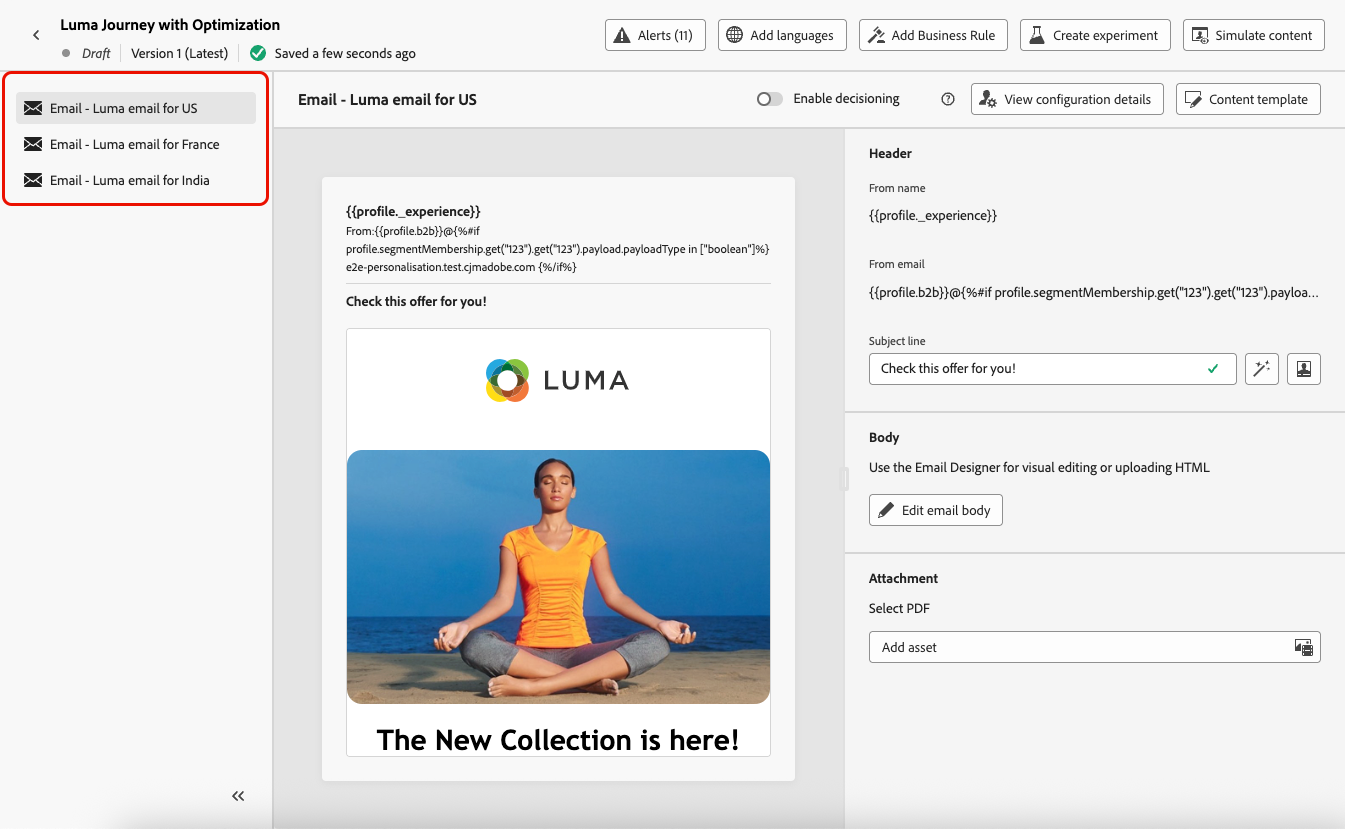
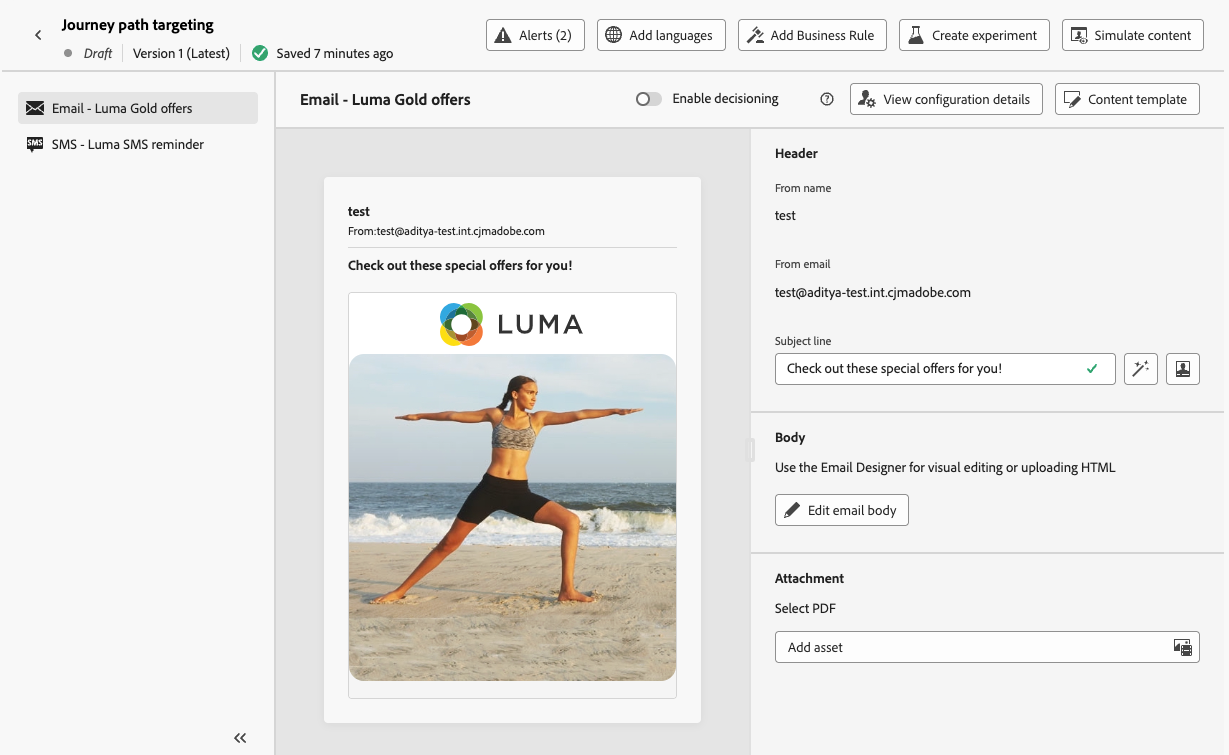
DODAC-1137- Journey path optimization updates (#2051)
* DOCAC-11377 - Journey path optimization draft

* DOCAC-11377 - Journey path optimization updates

* DOCAC-11377 - Journey path optimization updates

* update TOC with Optimize

* Orchestration activities update

* Optimize file name updated

* Update optimize.md

Added LA badge + mention

* Condition activity renamed to Conditions

* Old condition activity added back

* Old condition activity added back

* Availability note for the legacy Condition activity

* Update conditions.md

* fix

* Update conditions.md

Temp fix for CH

* DOCAC-11377 - Journey path optimization eng/PM feedback + UC

* unhide in rn

* add link to doc in rn

* DODAC-11377 - Journey path optimization updates

* DODAC-11377 - Journey path optimization updates

---------

diff --git a/help/using/building-journeys/optimize.md b/help/using/building-journeys/optimize.md
@@ -51,59 +51,109 @@ Once the journey is live, profiles are evaluated against the defined criteria, a
 
 Experimentation allows you to test different paths based on a random split to determine which performs best based on predefined success metrics.
 
-To set up experimentation in a journey, follow the steps below.
+To set up path experimentation in a journey, follow the steps below.
 
 Let's say you want to compare three paths:
 
 * one path with one email;
-* a second path with a Wait node of two days and an email;
+* a second path with a **[!UICONTROL Wait]** node of two days and an email;
 * a third path with an email and then an SMS message.
 
-1. Drop the **[!UICONTROL Optimize]** activity into the journey canvas.
+1. From the **[!UICONTROL Orchestration]** section, drag and drop the **[!UICONTROL Optimize]** activity into the journey canvas.
 
-1. Add an optional label to identify the activity in reporting and test mode logs.
+1. Add an optional label, which can be useful to identify the activity in reporting and test mode logs.
 
 1. Select **[!UICONTROL Experiment]** from the **[!UICONTROL Method]** drop-down list.
 
-    ![](assets/journey-optimize-experiment.png){width=85%}
+    ![](assets/journey-optimize-experiment.png){width=75%}
 
-1. Click **[!UICONTROL Experiment settings]**.
+1. Click **[!UICONTROL Create experiment]**.
 
-1. Design and configure your experiment as wanted. [Learn how](../content-management/content-experiment.md)
+1. Select the **[!UICONTROL Success metric]** you want to set for your experiment.
+
+    <!--Need to have the list of all default metrics + a description for each.
+    Explain why the metric selection is important.
+    Are there custom metrics? If so explain.
+    If possible, add best practices and examples for each metrics (could even be a dedicated section).
+    Consider adding an example in this step: For this example, select this metric to test xxx.
+    -->
+
+    ![](assets/journey-optimize-experiment-metrics.png){width=70%}
+
+<!--1. Change the **[!UICONTROL Title]** of your treatment to better differentiate them.-->
+
+1. You can choose to add a **[!UICONTROL Holdout]** group to your delivery. This group will not receive any content from this experiment. 
+
+    >[!NOTE]
+    >
+    >Switching on the toggle bar will automatically take 10% of your population. You can adjust this percentage if needed.
 
     <!--
-    ![](../campaigns/assets/msg-optimization-create-experiment.png){width=85%}
-    Replace with appropriate screenshot
-    The experiment applies to all the activities in the journey.TBC
-   -->
+    [!IMPORTANT]
+    >
+    >DOES THIS APPLY TO PATH EXPERIMENT? When a holdout group is used in an action for path experimentation, the holdout assignment only applies to that specific action. After the action is completed, profiles in the holdout group will continue down the journey path and can receive messages from other actions. Therefore, ensure that any subsequent messages do not rely on the receipt of a message by a profile that might be in a holdout group. If they do, you may need to remove the holdout assignment.-->
 
-Once the journey is live, users are randomly assigned to go down different paths. [!DNL Journey Optimizer] tracks which path drives more purchases and provides actionable insights.
+1. You can allocate a precise percentage to each **[!UICONTROL Treatment]**, or simply switch on the **[!UICONTROL Distribute evenly]** toggle bar.
 
-<!--Follow the success of your journey with the [Experimentation journey report](../reports/campaign-global-report-cja-experimentation.md). Is there a report specific to experimentation in journey?-->
+    ![](assets/journey-optimize-experiment-treatments.png){width=80%}
 
-### Use cases with Experiment {#uc-experiment}
+1. Click **[!UICONTROL Create]**.
+
+1. Define the elements you want for each branch resulting from the Experiment, for example:
+
+    * Drag and drop an [Email](../email/create-email.md) activity onto the first branch (**Treatment A**).
+
+    * Drag and drop a [Wait](wait-activity.md) activity of two days onto the first branch, followed by an [Email](../email/create-email.md) activity (**Treatment B**).
+
+    * Drag and drop an [Email](../email/create-email.md) activity onto the third branch, followed by an [SMS](../sms/create-sms.md) activity (**Treatment C**).
+
+    ![](assets/journey-optimize-experiment-ex.png){width=100%}
+
+1. Optionnally, use the **[!UICONTROL Add an alternative path in case of a timeout or an error]** to define a fallback action. [Learn more](using-the-journey-designer.md#paths)
+
+1. Select a channel action and use the **[!UICONTROL Edit content]** button to access the design tools.
+
+    ![](assets/journey-optimize-experiment-edit-content.png){width=70%}
+
+1. From there, using the left pane you can navigate between the different contents for each action in your experiment. Design all contents as needed.
+
+    ![](assets/journey-optimize-experiment-content.png){width=100%}
+
+1. [Publish](publishing-the-journey.md) your journey.
+
+Once the journey is live, users are randomly assigned to go down different paths. [!DNL Journey Optimizer] tracks which path performs best and provides actionable insights.
+
+Follow the success of your journey with the Optimize/Experiment [journey report](../reports/journey-global-report-cja.md). <!--Need a doc page on reporting specific to path experimentation in journey - [Path experimentation journey report](../xxx) such as what we have for [Experimentation campaign report](../reports/campaign-global-report-cja-experimentation.md)-->
+
+### Experiment use cases {#uc-experiment}
 
 The following examples show how to use the **[!UICONTROL Optimize]** activity with the **[!UICONTROL Experiment]** method to determine which path works best overall.
 
-**Channel effectiveness**
++++Channel effectiveness
 
 Test whether sending the first message by email versus SMS drives higher conversions.
 
 * Use the conversion rate as the optimization metric (for example: purchases, sign-ups).
 
-![](assets/journey-optimize-experiment-uc.png)
+<!--![](assets/journey-optimize-experiment-uc.png)-->
 
-**Message frequency**
++++
+
++++Message frequency
 
 Run an experiment to check if sending one email versus three emails over a week results in more purchases.
 
 * Use purchases or the unsubscribe rate as the optimization metric.
 
-**Wait time between communications**
++++
+
++++Wait time between communications
 
 Compare a 24-hour wait versus a 72-hour wait before a follow-up to determine which timing maximizes engagement.
 
 * Use the click-through rate or revenue as the optimization metric.
+
++++
 
 ## Leverage targeting {#targeting}
 
@@ -111,27 +161,27 @@ Targeting allows you to determine specific rules or qualifications that must be 
 
 Unlike experimentation, which is a random assignment of a given path, targeting is deterministic in terms of ensuring the right audience or profile enters the specified path.
 
-With targeting, specific rules can be defined based on:
+<!--With targeting, specific rules can be defined based on:
 
-* **User profile attributes** such as location (eg. geo-targeting), age, or preferences. For example, users in the US see a "Golden Gate" promotion, while users in France see an "Eiffel Tower" promotion.
+* **User profile attributes** such as location (eg. geo-targeting), age, or preferences. For example, users in the US receive a "Golden Gate" promotion, while users in France receive an "Eiffel Tower" promotion.
 
 * **Contextual data** such as device type (eg. device-targeting), time of day, or session details. For example, desktop users receive desktop-optimized content, while mobile users receive mobile-optimized content.
 
-* **Audiences** which can be used to include or exclude profiles that have a particular audience membership.
+* **Audiences** which can be used to include or exclude profiles that have a particular audience membership.-->
 
 To set up targeting in a journey, follow the steps below.
 
-1. Drop the **[!UICONTROL Optimize]** activity into the journey canvas.
+1. From the **[!UICONTROL Orchestration]** section, drag and drop the **[!UICONTROL Optimize]** activity into the journey canvas.
 
-1. Add an optional label to identify the activity in reporting and test mode logs.
+1. Add an optional label, which can be useful to identify the activity in reporting and test mode logs.
 
-1. Select **[!UICONTROL Targeting]** from the **[!UICONTROL Method]** drop-down list.
+1. Select **[!UICONTROL Targeting rule]** from the **[!UICONTROL Method]** drop-down list.
 
-    ![](assets/journey-optimize-targeting.png){width=85%}
+    ![](assets/journey-optimize-targeting.png){width=75%}
 
 1. Click **[!UICONTROL Create targeting rule]**.
 
-1. Use the rule builder to define your criteria. For example, define a rule for US residents, a rule for France residents, and a rule for India residents.
+1. Use the rule builder to define your criteria. For example, define a rule for Gold members of the Loyalty program (`loyalty.status.equals("Gold", false)`), and a rule for the other members (`loyalty.status.notEqualTo("Gold", false)`).
 
     ![](assets/journey-targeting-rule.png)
 
@@ -139,41 +189,51 @@ To set up targeting in a journey, follow the steps below.
 
 1. Save your targeting rule settings.
 
-1. Back in the journey, drop specific actions to customize each path. For example, you can create a specific email for US residents, another email for France residents, and so on.
+1. Back in the journey, drop specific actions to customize each path. For example, create an email with personalized offers for Gold Loyalty members, and an SMS reminder for all other members.
 
     ![](assets/journey-targeting-paths.png)
 
-1. Design appropriate content for each group defined by your targeting rule settings. You can seamlessly navigate between the different paths.
+1. Optionnally, use the **[!UICONTROL Add an alternative path in case of a timeout or an error]** to define a fallback action. [Learn more](using-the-journey-designer.md#paths)
+
+1. Design appropriate content for each action corresponding to a group defined by your targeting rule settings. You can seamlessly navigate between the different contents for each action.
 
     ![](assets/journey-targeting-design.png)
 
-   In this example, design a specific path for US residents, a different path for French residents and another path for India residents.
+   In this example, design an email with special offers for Gold members, and an SMS reminder for the other members.
 
-Once the journey is live, the path that is specified for each segment is processed so that US residents enter a specific path, France residents enter a different path, and so on.
+1. [Publish](publishing-the-journey.md) your journey.
 
-### Use cases with Targeting {#uc-targeting}
+Once the journey is live, the path that is specified for each segment is processed so that Gold members enter the path with the email offers, while the other members enter the path with the SMS reminder.
+
+### Targeting use cases {#uc-targeting}
 
 The following examples show how to use the **[!UICONTROL Optimize]** activity with the **[!UICONTROL Targeting]** method to personalize paths for different sub-audiences.
 
-**Segment-specific channels**
++++Segment-specific channels
 
 Gold status loyalty members can receive personalized offers via email, while all other members are directed to SMS reminders.
 
 * Use the revenue per profile or conversion rate as the optimization metric.
 
-![](assets/journey-optimize-targeting-uc.png)
+<!--![](assets/journey-optimize-targeting-uc.png)-->
 
-**Behavior-based targeting**
++++
+
++++Behavior-based targeting
 
 Customers who opened an email but didn't click can be sent a push notification, while those who didn't open at all receive an SMS.
 
 * Use the click-through rate or downstream conversions as the optimization metric.
 
-**Purchase history targeting**
++++
+
++++Purchase history targeting
 
 Customers who have recently purchased can go into a short "Thank you + Cross-sell" path, while those with no purchase history enter a longer nurture journey.
 
 * Use the repeat purchase rate or engagement rate as the optimization metric.
+
++++
 
 ## Add a condition {#conditions}
 

diff --git a/help/using/building-journeys/troubleshooting.md b/help/using/building-journeys/troubleshooting.md
@@ -46,6 +46,6 @@ Errors and warnings that are global to the journey appear first in the list. Err
 
 ## Add an alternative path {#canvas-add-path}
 
-You can define a fallback action in case of an error for the following journey activities: **[!UICONTROL Condition]** and **[!UICONTROL Action]**.
+You can define a fallback action in case of an error for the following journey activities: **[!UICONTROL Optimize]** and **[!UICONTROL Action]**.
 
 When an error occurs in an action or a condition, the journey of an individual stops. The only way to make it continue is to solve the issue. To avoid interrupting the journey, you can also check the option **[!UICONTROL Add an alternative path in case of a timeout or an error]** in the activity's properties. Learn more in [this section](../building-journeys/using-the-journey-designer.md#paths).
